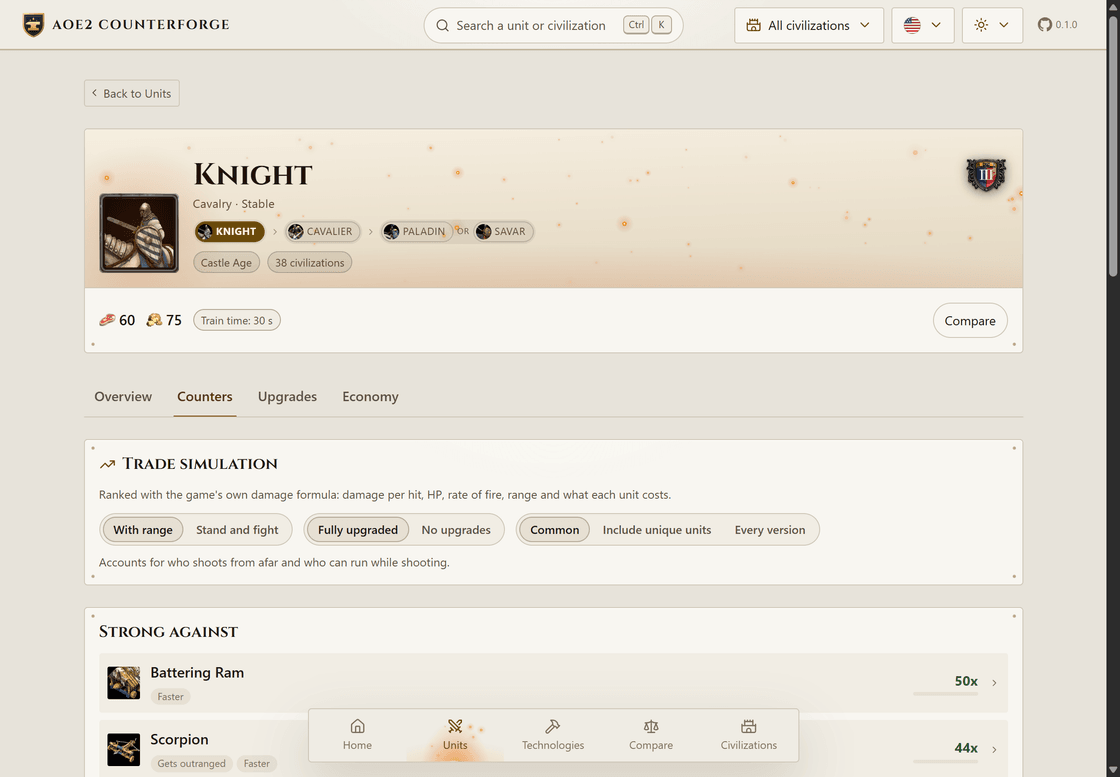
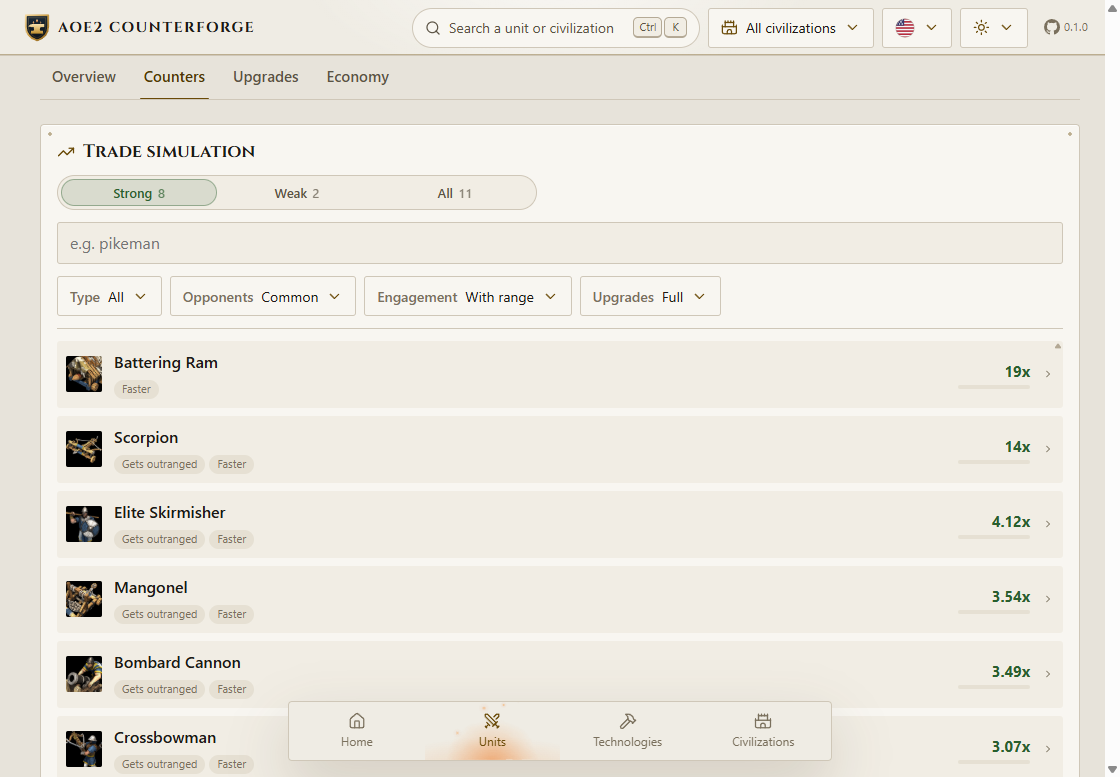
docs: refresh the counters screenshot

diff --git a/README.md b/README.md
@@ -47,7 +47,7 @@ you have, and whether you plan to stand and fight or shoot on the move.
 <table>
 <tr>
 <td width="50%" valign="top">
-<img src="docs/screenshots/counters-light.png" alt="Counters tab with the trade simulation and the strongest matchups">
+<img src="docs/screenshots/counters-light.png" alt="Counters tab: strong, weak and every matchup behind one switch">
 <p align="center"><sub>Counters, in either theme</sub></p>
 </td>
 <td width="50%" valign="top">
